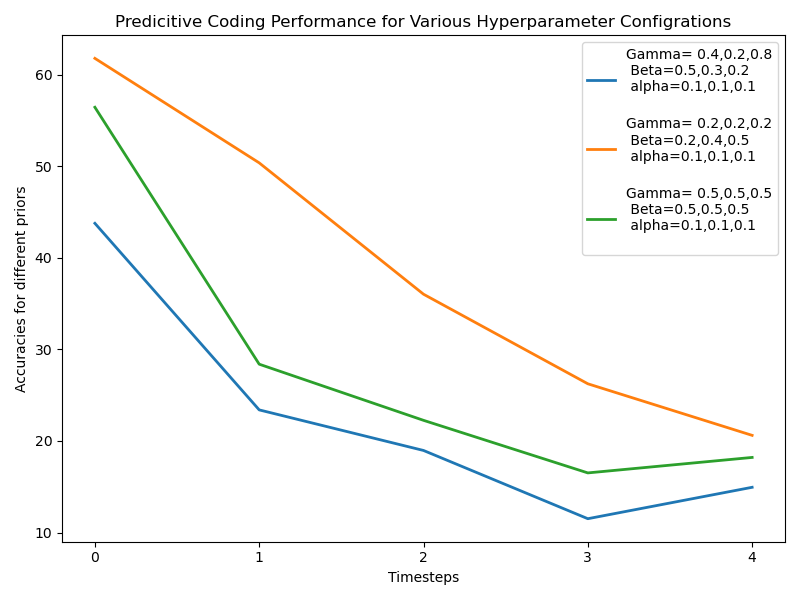
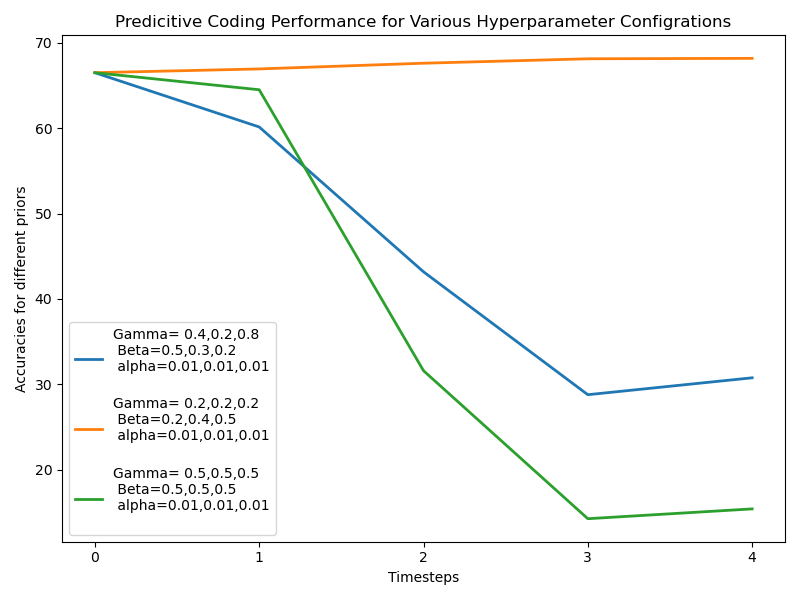
predicitve_coding_fixed

diff --git a/week2/main.py b/week2/main.py
@@ -83,7 +83,7 @@ def main():
         ft_AB,ft_BC,ft_CD,ft_DE,output=feedfwd_training(net,trainloader,testloader,lr,momentum,save_dir)
         #visualize_model(net)
         feedback_training(net,trainloader,testloader,lr,momentum,save_dir)
-        hyp_dict={'Gamma= 0.4,0.2,0.8\n Beta=0.5,0.3,0.2\n alpha=0.1,0.1,0.1\n ':[[0.4,0.2,0.8],[0.5,0.3,0.2],[0.1,0.1,0.1]],'Gamma= 0.2,0.2,0.2\n Beta=0.2,0.4,0.5\n alpha=0.1,0.1,0.1\n ':[[0.2,0.2,0.2],[0.2,0.4,0.5],[0.1,0.1,0.1]],'Gamma= 0.5,0.5,0.5\n Beta=0.5,0.5,0.5\n alpha=0.1,0.1,0.1\n ':[[0.5,0.5,0.5],[0.5,0.5,0.5],[0.1,0.1,0.1]]}
+        hyp_dict={'Gamma= 0.4,0.2,0.8\n Beta=0.5,0.3,0.2\n alpha=0.01,0.01,0.01\n ':[[0.4,0.2,0.8],[0.5,0.3,0.2],[0.01,0.01,0.01]],'Gamma= 0.2,0.2,0.2\n Beta=0.2,0.4,0.5\n alpha=0.01,0.01,0.01\n ':[[0.2,0.2,0.2],[0.2,0.4,0.5],[0.01,0.01,0.01]],'Gamma= 0.5,0.5,0.5\n Beta=0.5,0.5,0.5\n alpha=0.01,0.01,0.01\n ':[[0.5,0.5,0.5],[0.5,0.5,0.5],[0.01,0.01,0.01]]}
         i=0
         accuracy_dict={}
         iters=range(0,5,1)
@@ -103,7 +103,7 @@ def main():
         beta_train=[0.3,0.3,0.3]
         alpha_train=[0.01,0.01,0.01]
         pc_training(net,trainloader,testloader,lr,momentum,save_dir,gamma_train,beta_train,alpha_train,"train")
-        hyp_dict={'Gamma= 0.4,0.2,0.8\n Beta=0.5,0.3,0.2\n alpha=0.1,0.1,0.1\n ':[[0.4,0.2,0.8],[0.5,0.3,0.2],[0.1,0.1,0.1]],'Gamma= 0.2,0.2,0.2\n Beta=0.2,0.4,0.5\n alpha=0.1,0.1,0.1\n ':[[0.2,0.2,0.2],[0.2,0.4,0.5],[0.1,0.1,0.1]],'Gamma= 0.5,0.5,0.5\n Beta=0.5,0.5,0.5\n alpha=0.1,0.1,0.1\n ':[[0.5,0.5,0.5],[0.5,0.5,0.5],[0.1,0.1,0.1]]}
+        hyp_dict={'Gamma= 0.4,0.2,0.8\n Beta=0.5,0.3,0.2\n alpha=0.01,0.01,0.01\n ':[[0.4,0.2,0.8],[0.5,0.3,0.2],[0.01,0.01,0.01]],'Gamma= 0.2,0.2,0.2\n Beta=0.2,0.4,0.5\n alpha=0.01,0.01,0.01\n ':[[0.2,0.2,0.2],[0.2,0.4,0.5],[0.01,0.01,0.01]],'Gamma= 0.5,0.5,0.5\n Beta=0.5,0.5,0.5\n alpha=0.01,0.01,0.01\n ':[[0.5,0.5,0.5],[0.5,0.5,0.5],[0.01,0.01,0.01]]}
         i=0
         accuracy_dict={}
         iters=range(0,5,1)

diff --git a/week2/pc_train.py b/week2/pc_train.py
@@ -76,18 +76,22 @@ def pc_training(net,trainloader,testloader,lr,momentum,save_dir,gamma,beta,alpha
             ft_AB_pc_temp = torch.zeros(batch_size, 6, 32, 32)
             ft_BC_pc_temp = torch.zeros(batch_size, 16, 16, 16)
             ft_CD_pc_temp = torch.zeros(batch_size, 64, 8, 8)
-            
-            ft_AB_pc_temp.requires_grad_(True)
-            ft_BC_pc_temp.requires_grad_(True)
-            ft_CD_pc_temp.requires_grad_(True)
             images,labels=batch
             # Move data to the same device as the model
             images, labels = images.to(device), labels.to(device)
             ft_AB_pc_temp,ft_BC_pc_temp,ft_CD_pc_temp,ft_DE_pc_temp,output = net.feedforward_pass(images,ft_AB_pc_temp,ft_BC_pc_temp,ft_CD_pc_temp)
+
+            # Re-enable gradients after feedforward_pass overwrites the tensors
+            ft_AB_pc_temp = ft_AB_pc_temp.requires_grad_(True)
+            ft_BC_pc_temp = ft_BC_pc_temp.requires_grad_(True)
+            ft_CD_pc_temp = ft_CD_pc_temp.requires_grad_(True)
+
+            _,predicted=torch.max(output,1)
+            total_correct[0]+=(predicted==labels).sum().item()
             for i in range(timesteps):
                 output,ft_AB_pc_temp,ft_BC_pc_temp,ft_CD_pc_temp,ft_DE_pc_temp=net.predictive_coding_pass(images,ft_AB_pc_temp,ft_BC_pc_temp,ft_CD_pc_temp,ft_DE_pc_temp,beta,gamma,alpha,images.size(0))
                 _,predicted=torch.max(output,1)
-                total_correct[i]+=(predicted==labels).sum().item()
+                total_correct[i+1]+=(predicted==labels).sum().item()
 
 
             total_samples+=labels.size(0)
